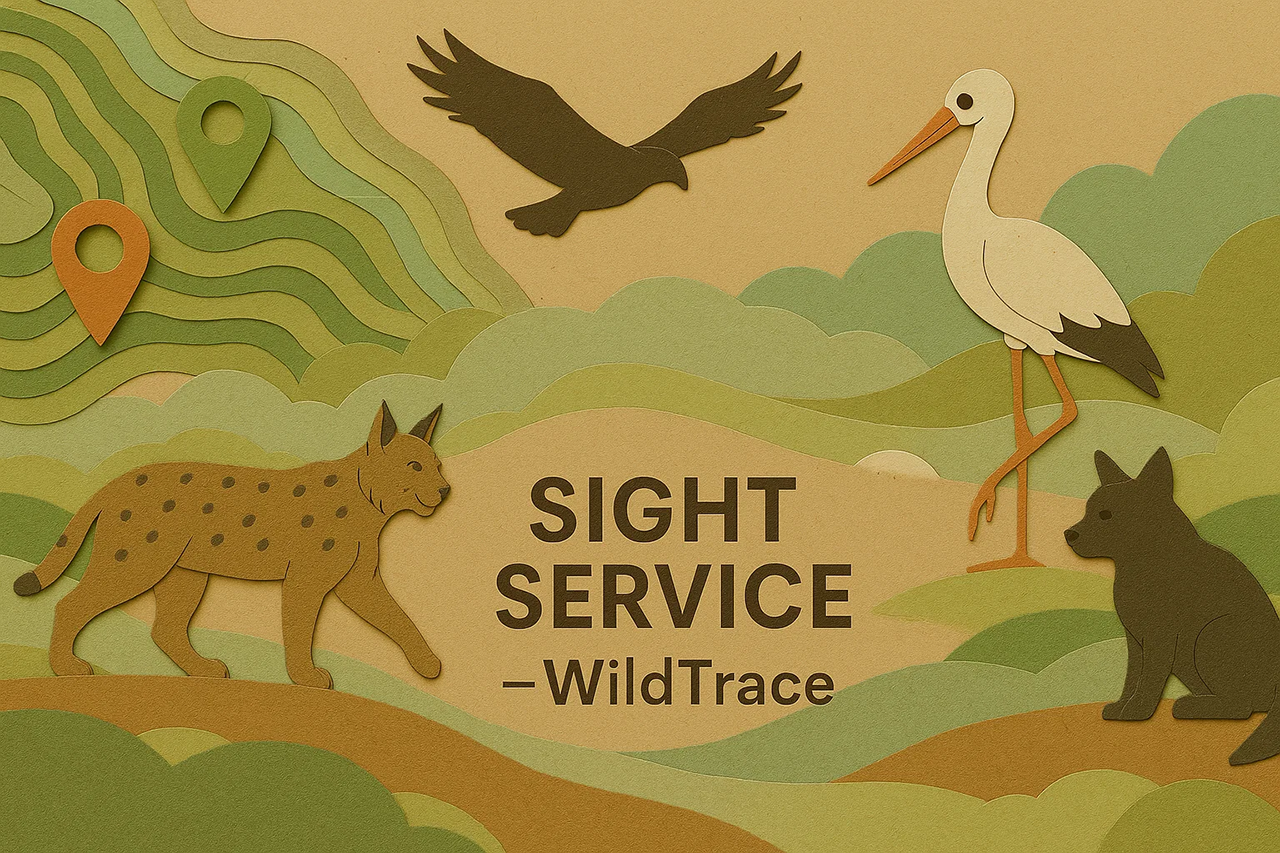
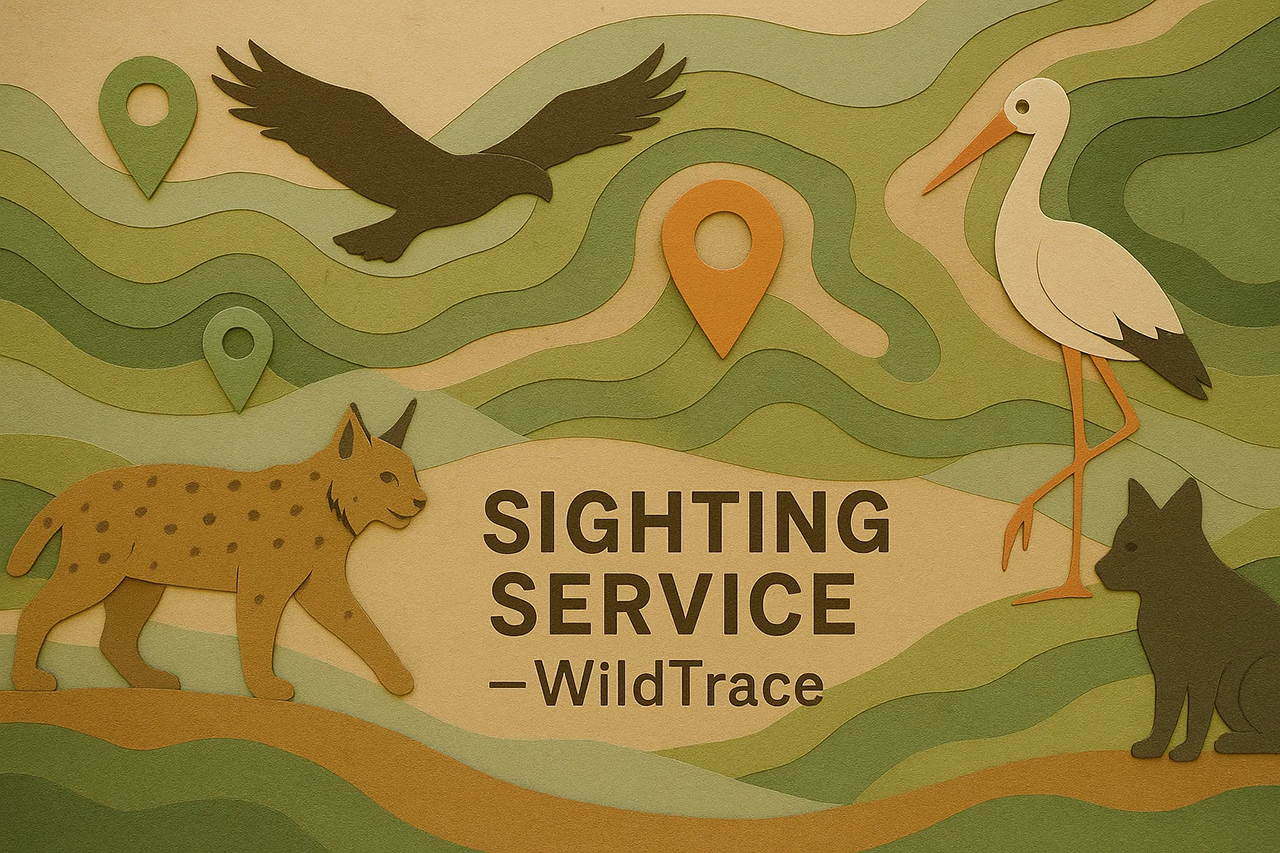
Basic Documentation.

diff --git a/README.md b/README.md
@@ -1,1 +1,159 @@
-# WildTrace
+<div style="text-align: center;">
+  <img src="banner.png" alt="WildTrace" width="100%">
+</div>
+
+# WildTrace – Plataforma distribuida para el registro de biodiversidad
+
+## 🌿 Descripción general
+
+**WildTrace** es un sistema distribuido de microservicios diseñado para registrar avistamientos de fauna en zonas naturalizadas. Su objetivo es proporcionar una herramienta extensible, modular y profesional para técnicos, voluntarios y gestores ambientales interesados en el seguimiento de la biodiversidad.
+
+Cada avistamiento queda registrado como una combinación única de especie, zona geográfica y fecha, con detalles del observador y método usado.
+
+---
+
+## 🧩 Arquitectura basada en microservicios
+
+WildTrace está compuesto por los siguientes servicios:
+
+| Servicio           | Puerto | Descripción                                           |
+|--------------------|--------|--------------------------------------------------------|
+| `discovery-server` | 8761   | Eureka Server para descubrimiento de servicios        |
+| `gateway-service`  | 8080   | API Gateway que enruta las solicitudes a los servicios |
+| `species-service`  | 8081   | Gestión del catálogo de especies                      |
+| `zone-service`     | 8082   | Gestión de zonas naturalizadas                        |
+| `sighting-service` | 8083   | Registro de avistamientos de especies                 |
+
+Todos los microservicios están registrados en Eureka y se comunican a través de **Feign Clients**.
+
+---
+
+## 🗺 Diagrama de arquitectura
+
+```text
+          +------------------------+
+          |   discovery-server     | (Eureka)
+          +------------------------+
+                     ▲
+                     |
+         +-----------+------------+
+         |                        |
++------------------+    +------------------+    +------------------+
+|  species-service |    |   zone-service   |    | sighting-service |
++------------------+    +------------------+    +------------------+
+         ▲                        ▲                     ▲
+         |                        |                     |
+         +----------+-------------+---------------------+
+                    |
+            +------------------+
+            |  gateway-service |
+            +------------------+  <-- Expuesto en el puerto 8080
+```
+
+---
+
+## 🚀 Instalación local (multi-servicio)
+
+### 1. Clonar el repositorio
+
+```bash
+git clone https://github.com/dsuarezg/WildTrace.git
+cd WildTrace
+```
+
+### 2. Crear las bases de datos en MySQL:
+
+```sql
+CREATE DATABASE wildtrace_species;
+CREATE DATABASE wildtrace_zones;
+CREATE DATABASE wildtrace_sightings;
+```
+
+### 3. Configurar `application.properties` en cada microservicio (`species-service`, `zone-service`, `sighting-service`)
+
+Asegúrate de definir el nombre de la aplicación y la URL de Eureka:
+
+```properties
+spring.application.name=species-service
+eureka.client.service-url.defaultZone=http://localhost:8761/eureka
+```
+
+### 4. Compilar y ejecutar todos los servicios:
+
+En cada subcarpeta:
+```bash
+mvn clean install
+mvn spring-boot:run
+```
+
+Orden recomendado:
+1. `discovery-server`
+2. `gateway-service`
+3. `species-service`
+4. `zone-service`
+5. `sighting-service`
+
+---
+
+## 📚 Microservicios documentados
+
+### 🔬 [Species Service](species-service/README.md)
+- Gestión de especies (CRUD)
+- Swagger UI: `http://localhost:8081/swagger-ui/index.html`
+
+### 🗺 [Zone Service](zone-service/README.md)
+- Gestión de zonas naturalizadas (CRUD + coordenadas)
+- Swagger UI: `http://localhost:8082/swagger-ui/index.html`
+
+### 👁 [Sighting Service](sighting-service/README.md)
+- Registro de avistamientos (con validación cruzada)
+- Swagger UI: `http://localhost:8083/swagger-ui/index.html`
+
+---
+
+## 🔐 API Gateway
+
+`gateway-service` escucha en el puerto `8080` y enruta las peticiones a los microservicios según los siguientes patrones:
+
+| Ruta                  | Servicio destino        |
+|-----------------------|-------------------------|
+| `/api/species/**`     | `species-service`       |
+| `/api/zones/**`       | `zone-service`          |
+| `/api/sightings/**`   | `sighting-service`      |
+
+---
+
+## 🔧 Tecnologías utilizadas
+
+- Java 21
+- Spring Boot 3.4.x
+- Spring Cloud Eureka / OpenFeign / Gateway
+- Spring Data JPA
+- Swagger / OpenAPI 3
+- JUnit 5 / Mockito / MockMvc / TestRestTemplate
+- ArchUnit / JaCoCo
+- MySQL / MariaDB
+- Lombok
+- Maven
+
+---
+
+## ✅ Pruebas y cobertura
+
+Todos los servicios cuentan con:
+
+- Tests unitarios con Mockito
+- Tests de integración con MockMvc
+- Tests funcionales con TestRestTemplate
+- Validación de arquitectura con ArchUnit
+- Cobertura con JaCoCo (visualizable en `target/site/jacoco/index.html`)
+
+---
+
+## 📦 Por hacer (próximos pasos)
+
+- [ ] Cachear entidades más consultadas (especies, zonas)
+- [ ] Filtros avanzados en Sightings por fecha, especie, zona
+- [ ] Enriquecer respuestas con datos relacionados (DTOs anidados)
+- [ ] Exponer métricas o estadísticas (frecuencia, zonas calientes)
+- [ ] Refactor hacia arquitectura hexagonal (por puertos y adaptadores)# WildTrace
